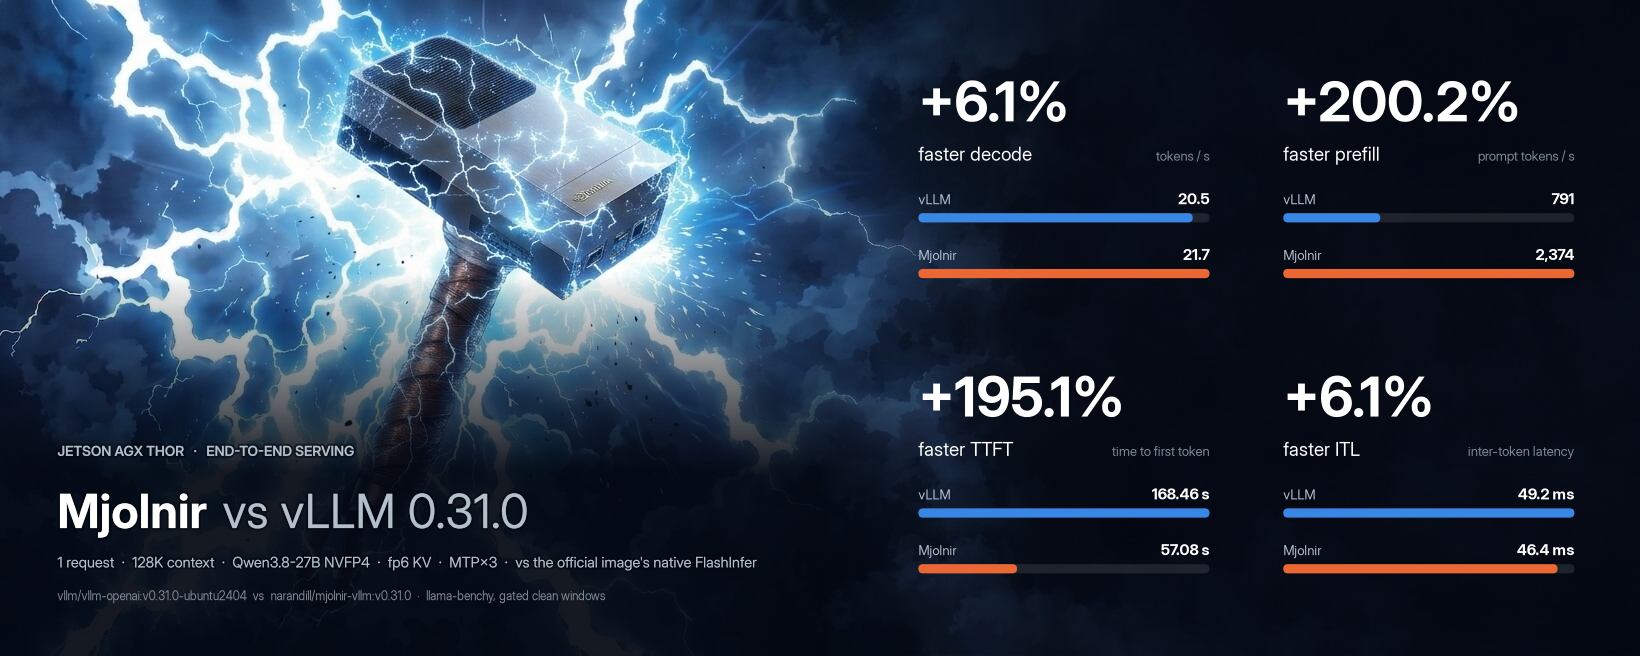
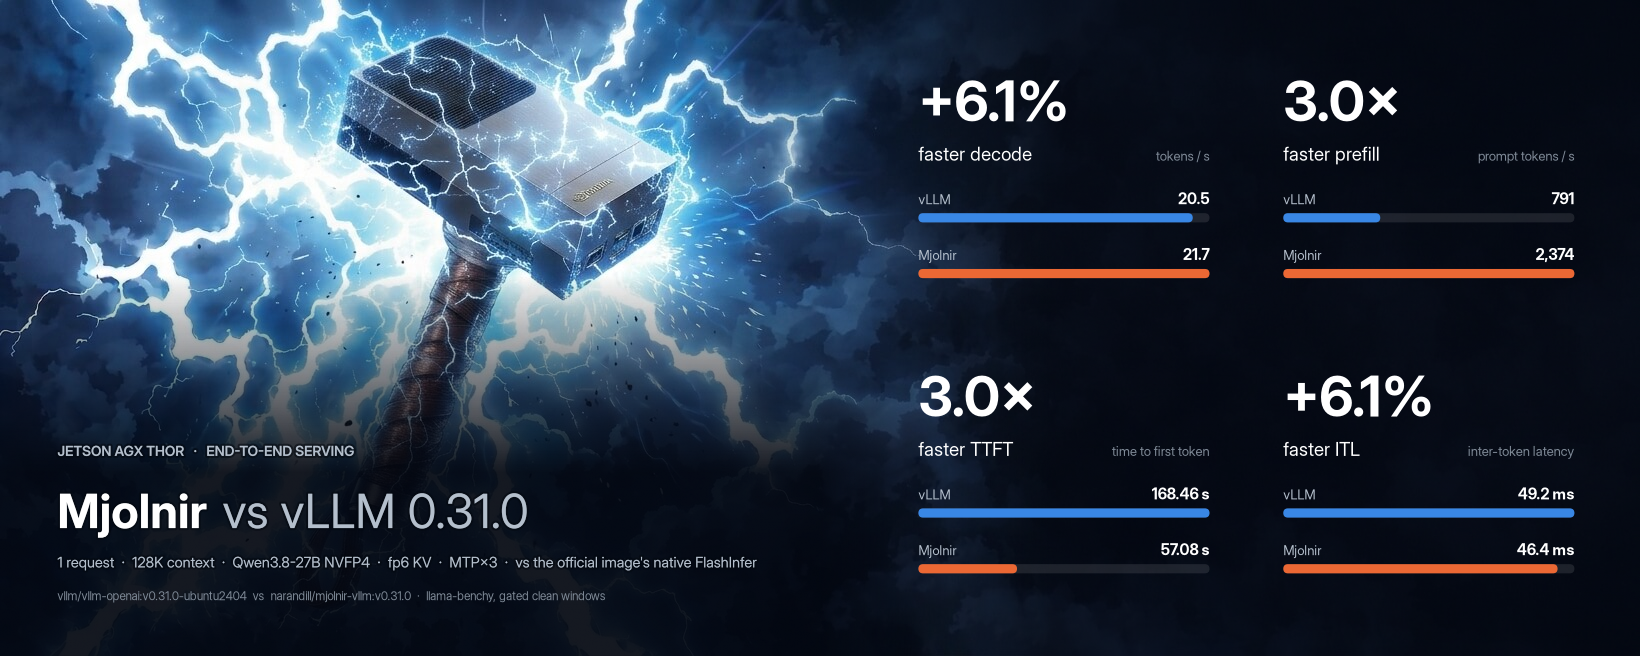
infographic: show a doubling or more as a multiple
At 128K one request the official image prefills 791 tok/s, Mjolnir 2,374
(TTFT 168.5 s vs 57.1 s; three runs within 0.5%): +200% is right but reads
like an error. Gains of 100% or more now print as a multiple (3.0x).

diff --git a/src/mjolnir-cli/mjolnir_cli/charts.py b/src/mjolnir-cli/mjolnir_cli/charts.py
@@ -1005,7 +1005,9 @@ def render_infographic(layout: RepoLayout) -> Path | None:
             continue
         x0 = L + (i % 2) * (cw + gap)
         y0 = tops[i // 2]
-        T(x0, y0 - 0.115, e2e.pct(gain), 40, white, "bold")
+        # a doubling or more reads as a multiple (+200% is "3.0x", not "+200%")
+        big = f"{1 + gain / 100:.1f}×" if gain >= 100 else e2e.pct(gain)
+        T(x0, y0 - 0.115, big, 40, white, "bold")
         T(x0, y0 - 0.175, better if gain >= 0 else worse, 13.5, white)
         T(x0 + cw, y0 - 0.175, unit, 9.5, faint, ha="right")
         X, BW = x0 * W, cw * W
